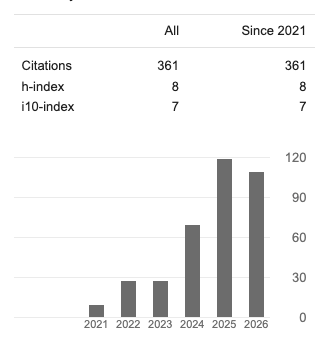
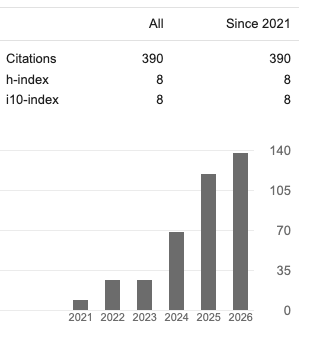
Update Scholar snapshot to 390 citations

diff --git a/index.html b/index.html
@@ -219,7 +219,7 @@
               >
                 <img
                   id="scholar-citations-image"
-                  src="assets/scholar-citations.png?v=2026-09-21-361"
+                  src="assets/scholar-citations.png?v=2026-11-03-390"
                   alt="Current Google Scholar citation snapshot for Rui Ma"
                 />
               </a>
@@ -253,7 +253,7 @@
             <span class="lang lang-zh" lang="zh-CN">荣誉</span>
           </div>
           <div class="stat stat-citations">
-            <strong id="scholar-citations-count">361</strong>
+            <strong id="scholar-citations-count">390</strong>
             <span class="lang lang-en">Google Scholar</span>
             <span class="lang lang-zh" lang="zh-CN">谷歌学术</span>
           </div>
